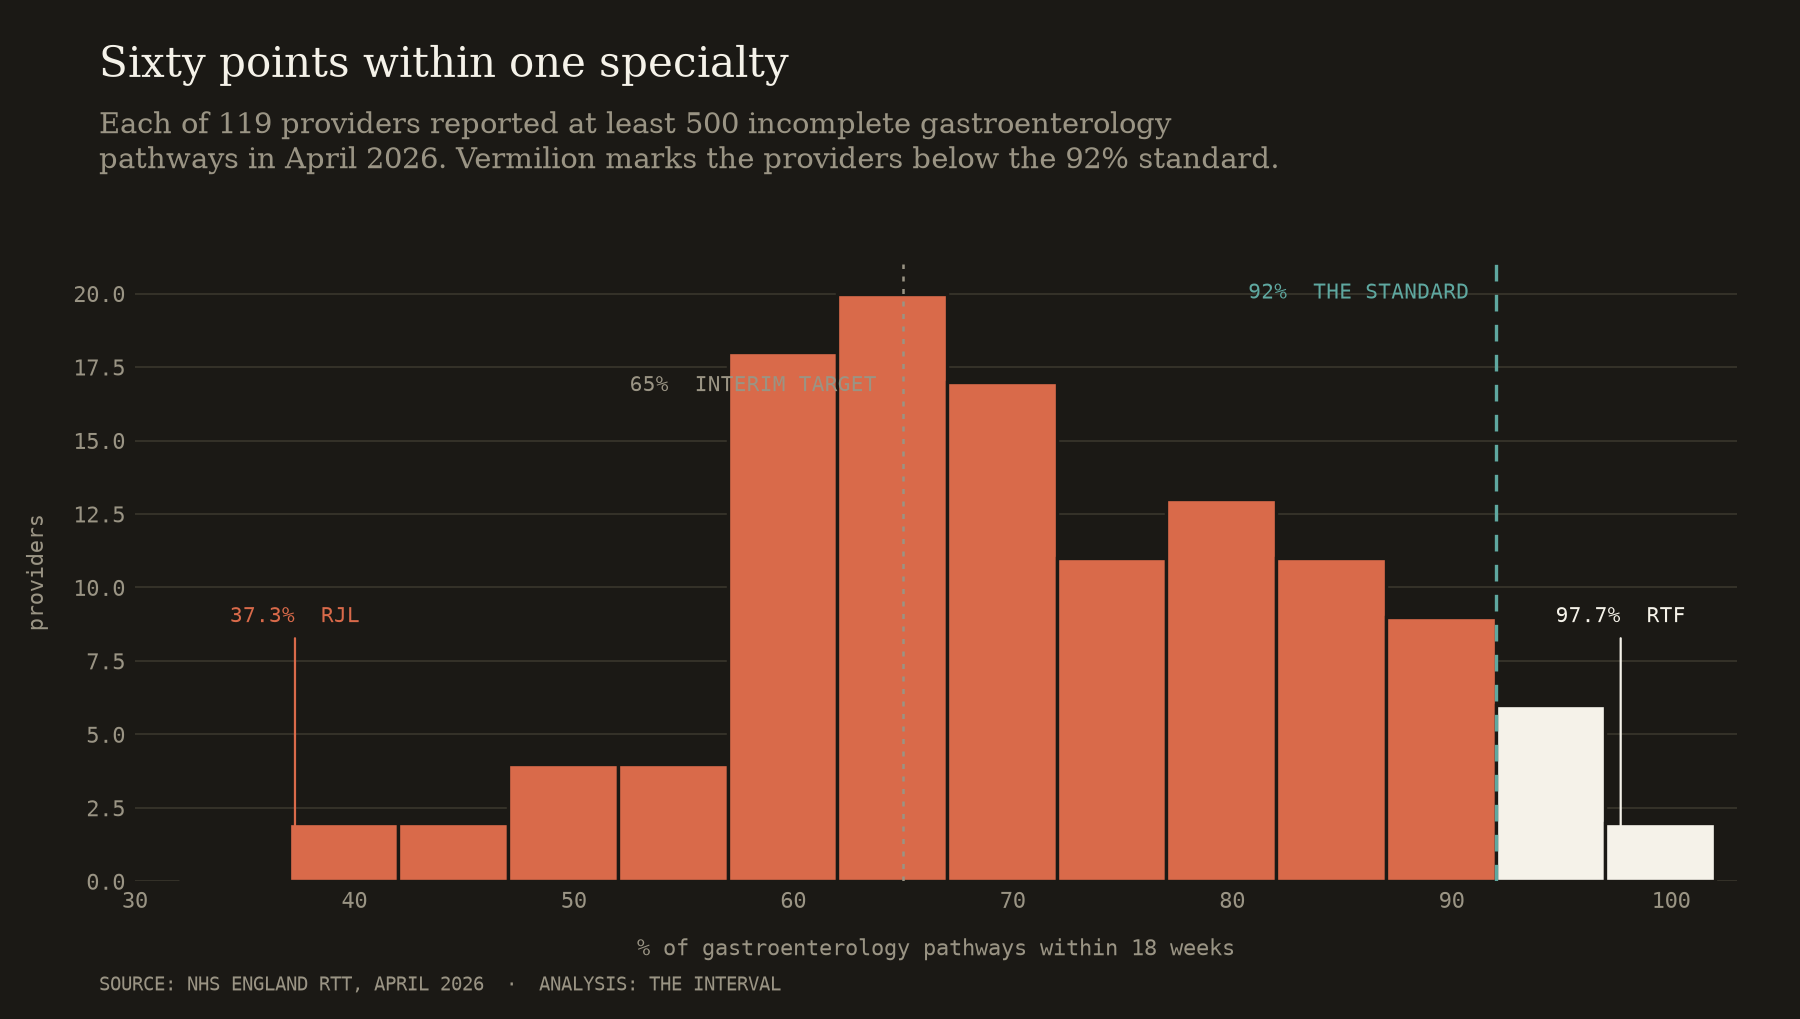
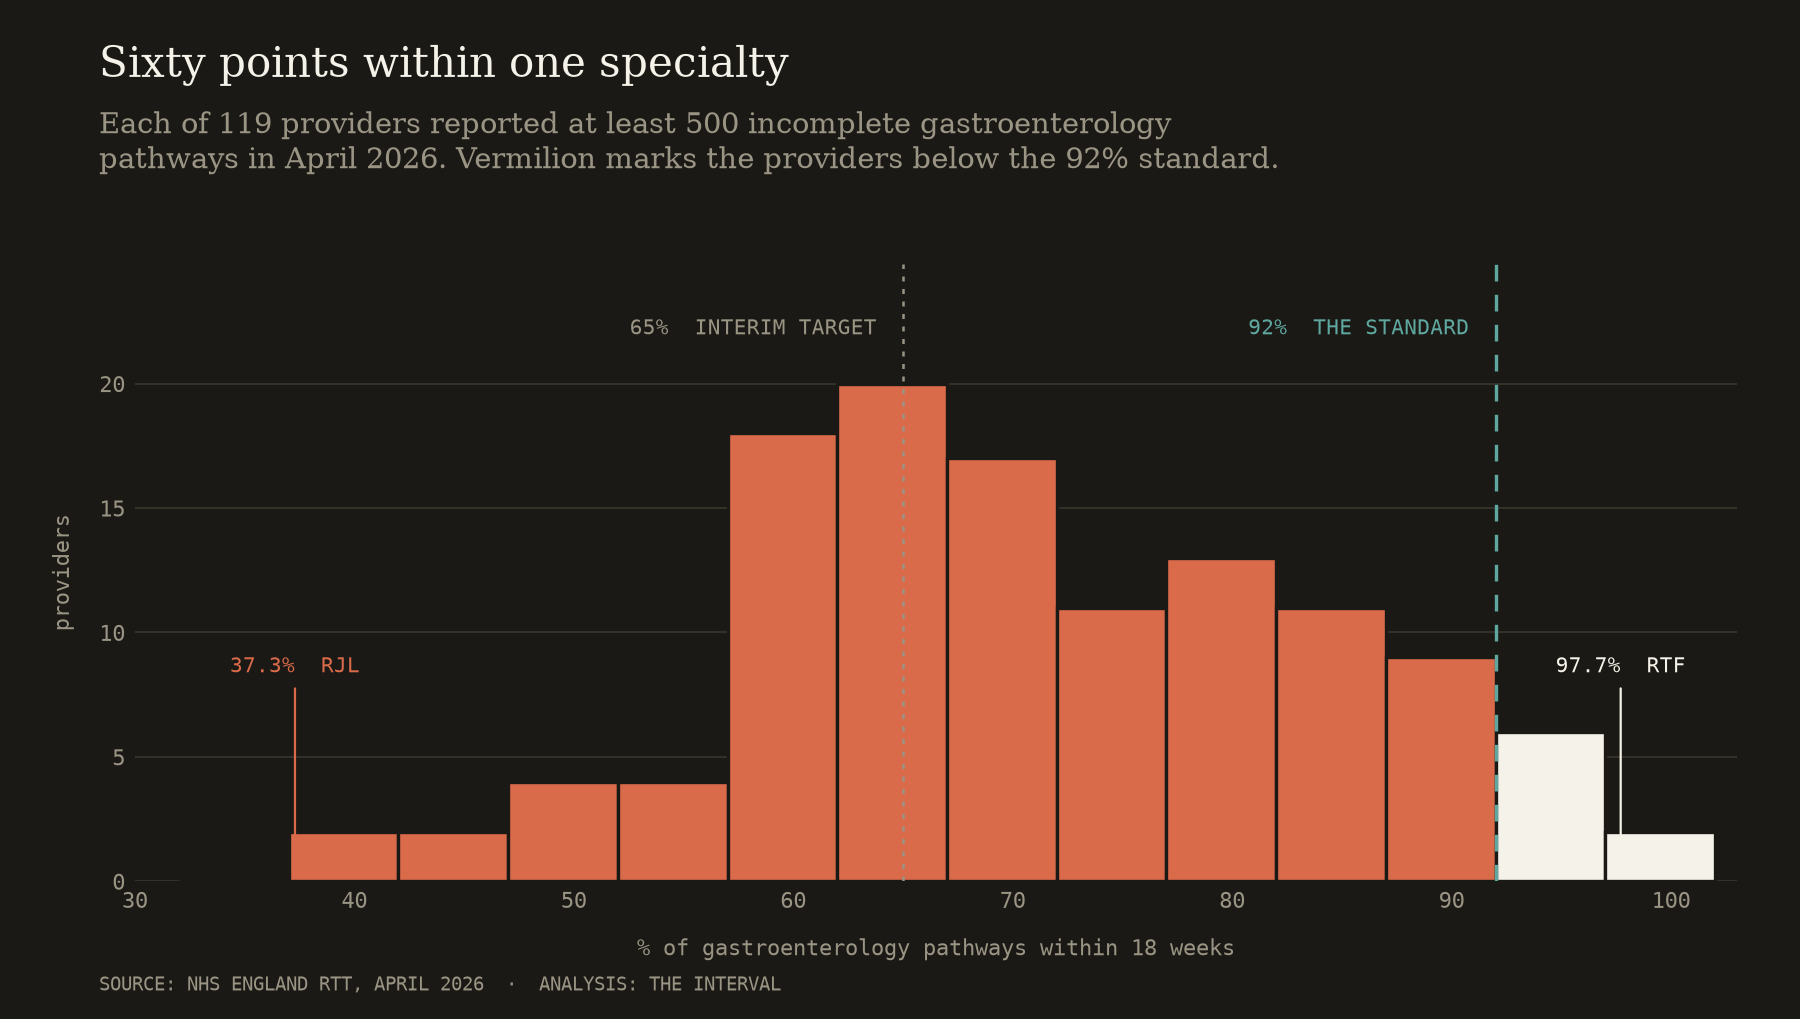
Give the histogram threshold labels headroom above the bars

diff --git a/finding-01/analysis/make_figures.py b/finding-01/analysis/make_figures.py
@@ -42,20 +42,24 @@ def fig_provider_distribution(theme):
         patch.set_edgecolor(c["bg"])
         patch.set_linewidth(1.2)
 
+    # Headroom above the tallest bar so the threshold labels never sit on one.
+    ax.set_ylim(0, max(n) * 1.24)
+    label_y = max(n) * 1.11
+
     ax.axvline(STANDARD, color=c["teal"], lw=1.2, ls=(0, (5, 4)), zorder=3)
-    ax.text(STANDARD - 1.2, ax.get_ylim()[1] * 0.97, "92%  THE STANDARD",
-            family=MONO, fontsize=7.5, color=c["teal"], ha="right", va="top")
+    ax.text(STANDARD - 1.2, label_y, "92%  THE STANDARD",
+            family=MONO, fontsize=7.5, color=c["teal"], ha="right", va="center")
     ax.axvline(INTERIM, color=c["muted"], lw=0.9, ls=(0, (2, 3)), zorder=3)
-    ax.text(INTERIM - 1.2, ax.get_ylim()[1] * 0.82, "65%  INTERIM TARGET",
-            family=MONO, fontsize=7.5, color=c["muted"], ha="right", va="top")
+    ax.text(INTERIM - 1.2, label_y, "65%  INTERIM TARGET",
+            family=MONO, fontsize=7.5, color=c["muted"], ha="right", va="center")
 
     lo, hi = df.loc[v.idxmin()], df.loc[v.idxmax()]
     ax.annotate(f"{lo.pct_within_18w:.1f}%  {lo.provider_code}", xy=(lo.pct_within_18w, 0.6),
-                xytext=(lo.pct_within_18w, ax.get_ylim()[1] * 0.42), family=MONO, fontsize=7.5,
+                xytext=(lo.pct_within_18w, max(n) * 0.42), family=MONO, fontsize=7.5,
                 color=c["vermilion"], ha="center",
                 arrowprops=dict(arrowstyle="-", color=c["vermilion"], lw=0.8))
     ax.annotate(f"{hi.pct_within_18w:.1f}%  {hi.provider_code}", xy=(hi.pct_within_18w, 0.6),
-                xytext=(hi.pct_within_18w, ax.get_ylim()[1] * 0.42), family=MONO, fontsize=7.5,
+                xytext=(hi.pct_within_18w, max(n) * 0.42), family=MONO, fontsize=7.5,
                 color=c["ink"], ha="center",
                 arrowprops=dict(arrowstyle="-", color=c["ink"], lw=0.8))
 
